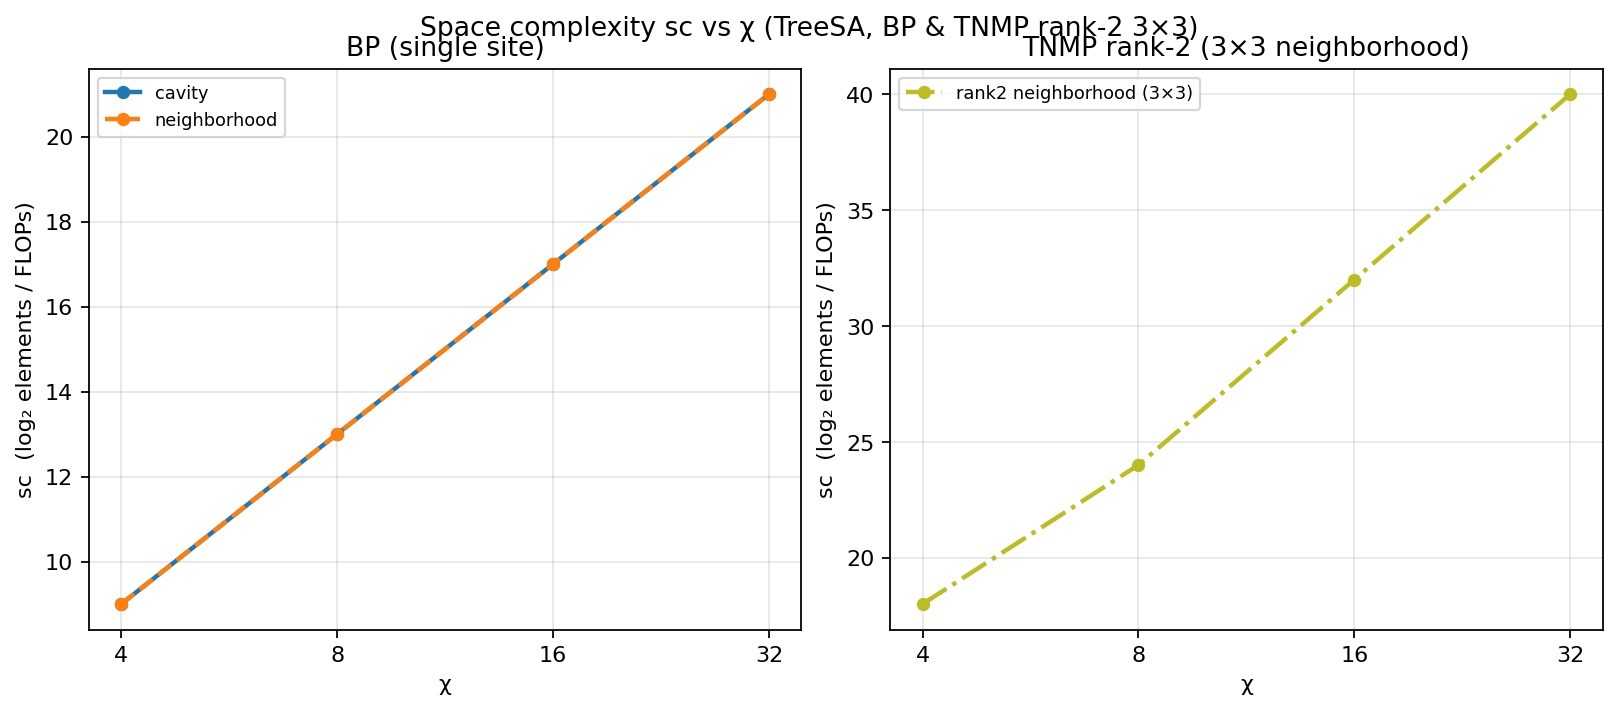
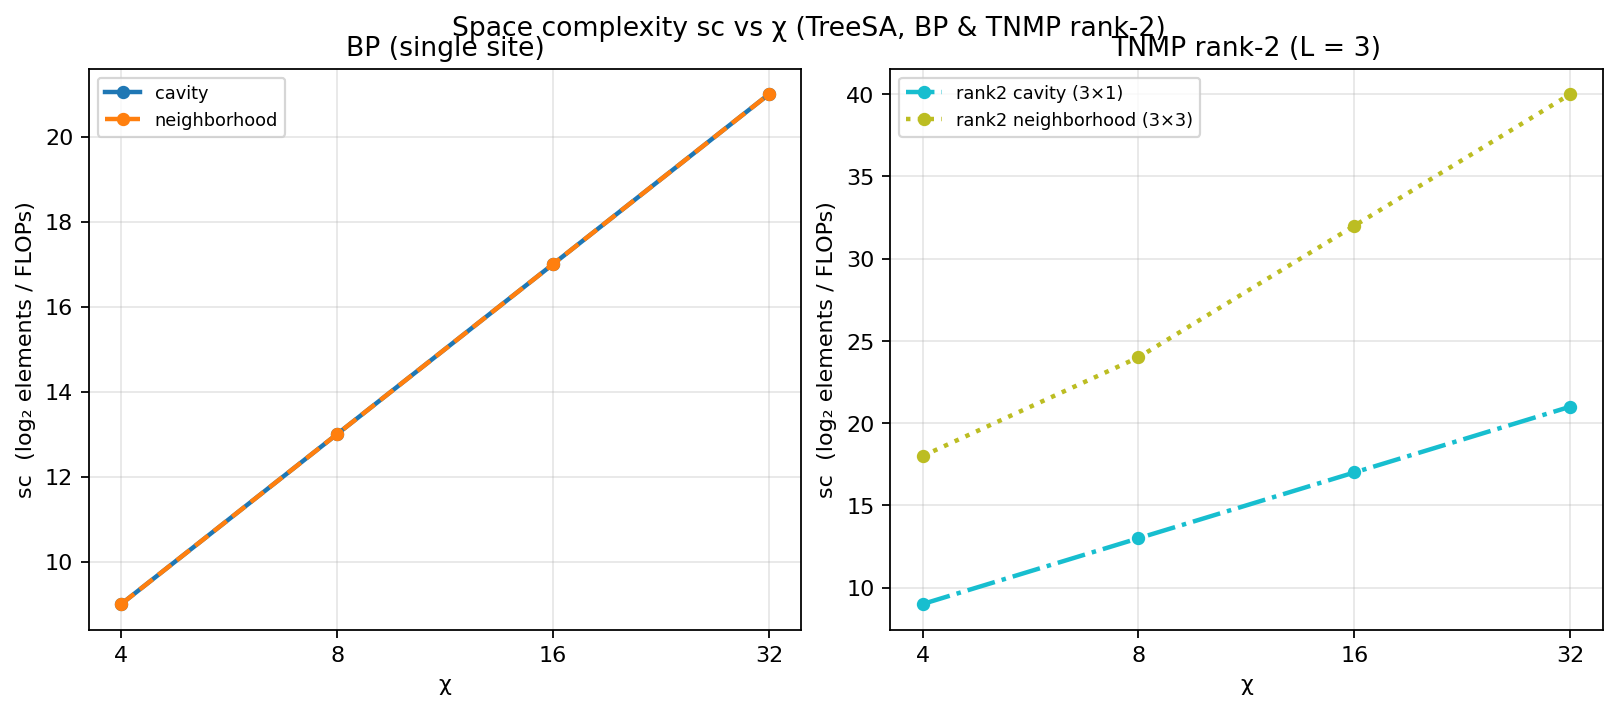
Add TNMP rank-2 cavity 3x1 to complexity scaling plots

diff --git a/contraction_process_tn/figs/complexity_scaling_slopes.md b/contraction_process_tn/figs/complexity_scaling_slopes.md
@@ -1,6 +1,6 @@
 Log–log slope = linear fit of **sc** (or **tc**) vs **log₂ χ**. Since sc = log₂(largest intermediate size), slope **k** means peak space scales as **χ^k** (similarly for tc vs total FLOPs).
 
-BP (§1) and TNMP rank-2 **3×3 neighborhood** (L = 3, §3), TreeSA.
+BP (§1) and TNMP rank-2 **3×1 cavity / 3×3 neighborhood** (L = 3, §3), TreeSA.
 
 ### sc slopes
 
@@ -8,6 +8,7 @@ BP (§1) and TNMP rank-2 **3×3 neighborhood** (L = 3, §3), TreeSA.
 |--------|------|---------|------:|
 | BP | cavity | {4, 8, 16, 32} | 4.000 |
 | BP | neighborhood | {4, 8, 16, 32} | 4.000 |
+| TNMP | rank2 cavity (3×1) | {4, 8, 16, 32} | 4.000 |
 | TNMP | rank2 neighborhood (3×3) | {4, 8, 16, 32} | 7.400 |
 
 ### tc slopes
@@ -16,4 +17,5 @@ BP (§1) and TNMP rank-2 **3×3 neighborhood** (L = 3, §3), TreeSA.
 |--------|------|---------|------:|
 | BP | cavity | {4, 8, 16, 32} | 5.000 |
 | BP | neighborhood | {4, 8, 16, 32} | 4.999 |
+| TNMP | rank2 cavity (3×1) | {4, 8, 16, 32} | 5.000 |
 | TNMP | rank2 neighborhood (3×3) | {4, 8, 16, 32} | 12.182 |